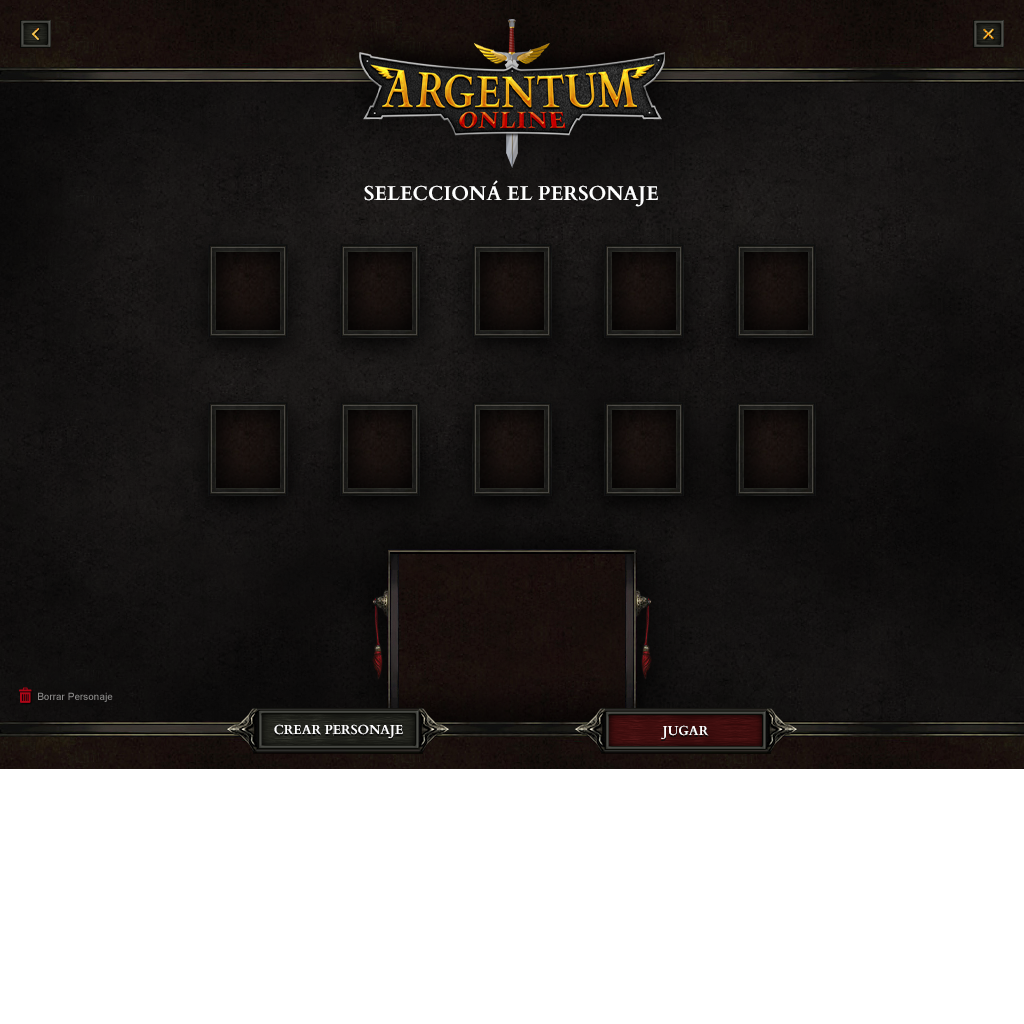
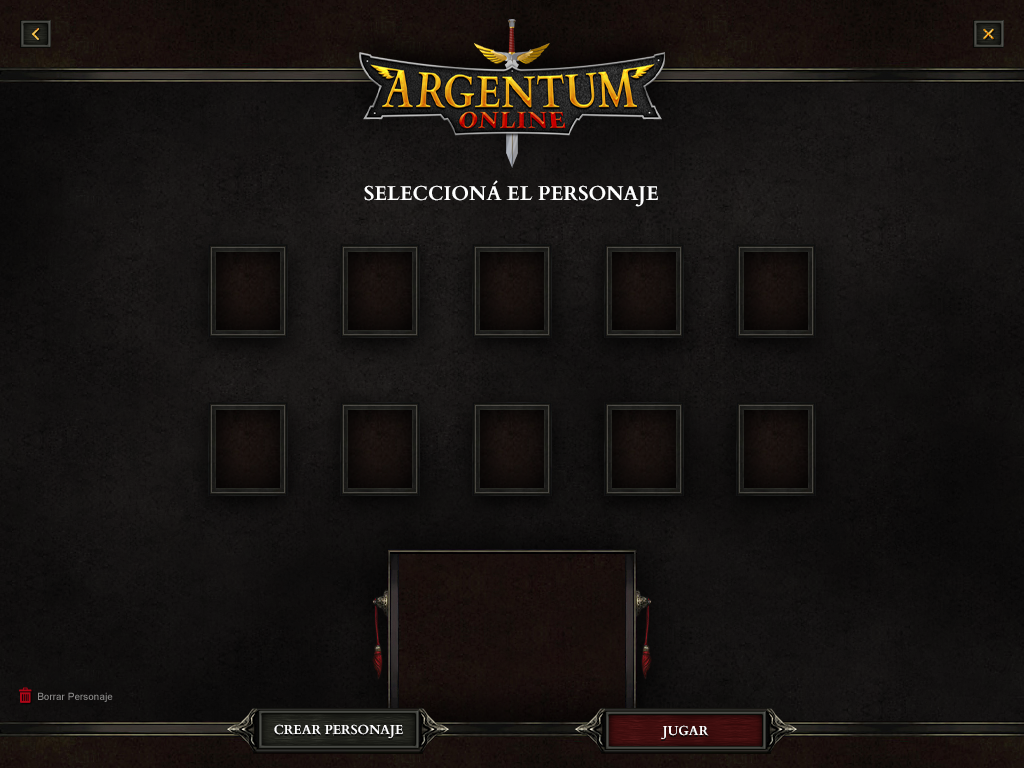
Agrego las skins en las boxes de abajo en Seleccion de personaje

diff --git a/client/char_creation_screen.cpp b/client/char_creation_screen.cpp
@@ -8,6 +8,8 @@
 const char* const CharCreationScreen::SKIN_FILES[NUM_SKINS] = {
         "skin_default.png", "Caballero_blanco.png", "Gladiador_azul.png",
         "Hechicero.png",    "Hechicera.png",
+        "skin_default.png", "Caballero_blanco.png", "Gladiador_azul.png",
+        "Hechicero.png",    "Hechicera.png",
 };
 
 CharCreationScreen::CharCreationScreen(SDL2pp::Renderer& renderer, const std::string& assetsPath):
@@ -17,13 +19,12 @@ CharCreationScreen::CharCreationScreen(SDL2pp::Renderer& renderer, const std::st
     int winW, winH;
     SDL_GetRendererOutputSize(renderer.Get(), &winW, &winH);
 
-    // Escala uniforme: el PNG 1024×1024 cabe dentro de la ventana sin distorsión,
-    // dejando barras negras en los bordes si la relación de aspecto es distinta.
-    scale = std::min(static_cast<float>(winW), static_cast<float>(winH)) / 1024.0f;
-    displayW = static_cast<int>(1024 * scale);
-    displayH = static_cast<int>(1024 * scale);
-    bgX = (winW - displayW) / 2;
-    bgY = (winH - displayH) / 2;
+    scaleX = static_cast<float>(winW) / 1024.0f;
+    scaleY = static_cast<float>(winH) / 768.0f;
+    displayW = winW;
+    displayH = winH;
+    bgX = 0;
+    bgY = 0;
 }
 
 CharCreationResult CharCreationScreen::run() {
@@ -38,15 +39,17 @@ CharCreationResult CharCreationScreen::run() {
 // ── Helpers ───────────────────────────────────────────────────────────────
 
 SDL2pp::Rect CharCreationScreen::pngToScreen(int x, int y, int w, int h) const {
-    return SDL2pp::Rect(bgX + static_cast<int>(x * scale), bgY + static_cast<int>(y * scale),
-                        static_cast<int>(w * scale), static_cast<int>(h * scale));
+    return SDL2pp::Rect(bgX + static_cast<int>(x * scaleX), bgY + static_cast<int>(y * scaleY),
+                        static_cast<int>(w * scaleX), static_cast<int>(h * scaleY));
 }
 
 SDL2pp::Rect CharCreationScreen::getBoxRect(int i) const {
-    int x = BOX_LEFT[i];
-    int w = BOX_RIGHT[i] - BOX_LEFT[i];
-    int h = BOX_BOTTOM - BOX_TOP;
-    return pngToScreen(x, BOX_TOP, w, h);
+    int col = i % COLS;
+    int x = BOX_LEFT[col];
+    int w = BOX_RIGHT[col] - BOX_LEFT[col];
+    int top = (i < COLS) ? BOX_TOP : BOX_TOP2;
+    int h = (i < COLS) ? BOX_BOTTOM - BOX_TOP : BOX_BOTTOM2 - BOX_TOP2;
+    return pngToScreen(x, top, w, h);
 }
 
 // ── Eventos ───────────────────────────────────────────────────────────────
@@ -73,6 +76,12 @@ void CharCreationScreen::handleEvents() {
                         break;
                     case SDLK_RIGHT:
                         selectedSkin = (selectedSkin + 1) % NUM_SKINS;
+                        break;
+                    case SDLK_DOWN:
+                        selectedSkin = (selectedSkin + COLS) % NUM_SKINS;
+                        break;
+                    case SDLK_UP:
+                        selectedSkin = (selectedSkin - COLS + NUM_SKINS) % NUM_SKINS;
                         break;
                 }
                 break;
@@ -136,20 +145,24 @@ void CharCreationScreen::render() {
 
 void CharCreationScreen::renderSkinInBox(int skinIdx, const SDL2pp::Rect& boxRect) {
     // Zona interior del recuadro (excluye el borde)
-    int pad = static_cast<int>(BOX_PAD * scale);
+    int pad = static_cast<int>(BOX_PAD * std::min(scaleX, scaleY));
     int innerX = boxRect.x + pad;
     int innerY = boxRect.y + pad;
     int innerW = boxRect.w - pad * 2;
     int innerH = boxRect.h - pad * 2;
 
-    // Tamaño del sprite escalado
-    int bodyW = static_cast<int>(SPRITE_W * SPRITE_SCL);
-    int bodyH = static_cast<int>(SPRITE_H * SPRITE_SCL);
-    int headW = static_cast<int>(HEAD_CELL_W * SPRITE_SCL);
-    int headH = static_cast<int>(HEAD_CELL_H * SPRITE_SCL);
+    // Escala dinámica: el sprite ocupa el máximo espacio posible dentro del recuadro
+    float totalSrcH = (HEAD_CELL_H / 4.0f + 3.0f) + SPRITE_H;
+    float spriteScale = std::min(
+            static_cast<float>(innerW) / SPRITE_W,
+            static_cast<float>(innerH) / totalSrcH);
+    int bodyW = static_cast<int>(SPRITE_W * spriteScale);
+    int bodyH = static_cast<int>(SPRITE_H * spriteScale);
+    int headW = static_cast<int>(HEAD_CELL_W * spriteScale);
+    int headH = static_cast<int>(HEAD_CELL_H * spriteScale);
 
     // Desplazamiento de la cabeza respecto al cuerpo (igual que en map_renderer)
-    int headAboveBody = static_cast<int>((HEAD_CELL_H / 4 + 3) * SPRITE_SCL);
+    int headAboveBody = static_cast<int>((HEAD_CELL_H / 4 + 3) * spriteScale);
 
     // Altura visual total: desde el top de la cabeza hasta el bottom del cuerpo
     int totalH = headAboveBody + bodyH;

diff --git a/client/char_creation_screen.h b/client/char_creation_screen.h
@@ -25,22 +25,25 @@ private:
     bool running = true;
     bool confirmed = false;
 
-    float scale;
-    int bgX, bgY;
-    int displayW, displayH;  // tamaño real del PNG en pantalla (aspect ratio preservado)
+    float scaleX = 1.0f, scaleY = 1.0f;
+    int bgX = 0, bgY = 0;
+    int displayW = 0, displayH = 0;
 
     // ── Skins disponibles (archivos dentro de AO_IMGS/Skins/) ────────────
-    static constexpr int NUM_SKINS = 5;
+    static constexpr int NUM_SKINS = 10;
     static const char* const SKIN_FILES[NUM_SKINS];
 
     // ── Posiciones de los recuadros en el PNG 1024×1024 ──────────────────
     // Cada par (left, right) son los bordes exteriores detectados por pixel.
     // El contenido interior empieza 4px adentro de cada borde.
-    static constexpr int BOX_COUNT = 5;
+    static constexpr int BOX_COUNT = 10;
+    static constexpr int COLS = 5;
     static constexpr int BOX_LEFT[5] = {215, 347, 479, 611, 743};
-    static constexpr int BOX_RIGHT[5] = {284, 416, 548, 680, 812};
+    static constexpr int BOX_RIGHT[5] = {280, 412, 544, 676, 808};
     static constexpr int BOX_TOP = 250;
     static constexpr int BOX_BOTTOM = 330;
+    static constexpr int BOX_TOP2 = 410;
+    static constexpr int BOX_BOTTOM2 = 490;
 
     // Padding interior (excluye el borde de 4px)
     static constexpr int BOX_PAD = 4;
